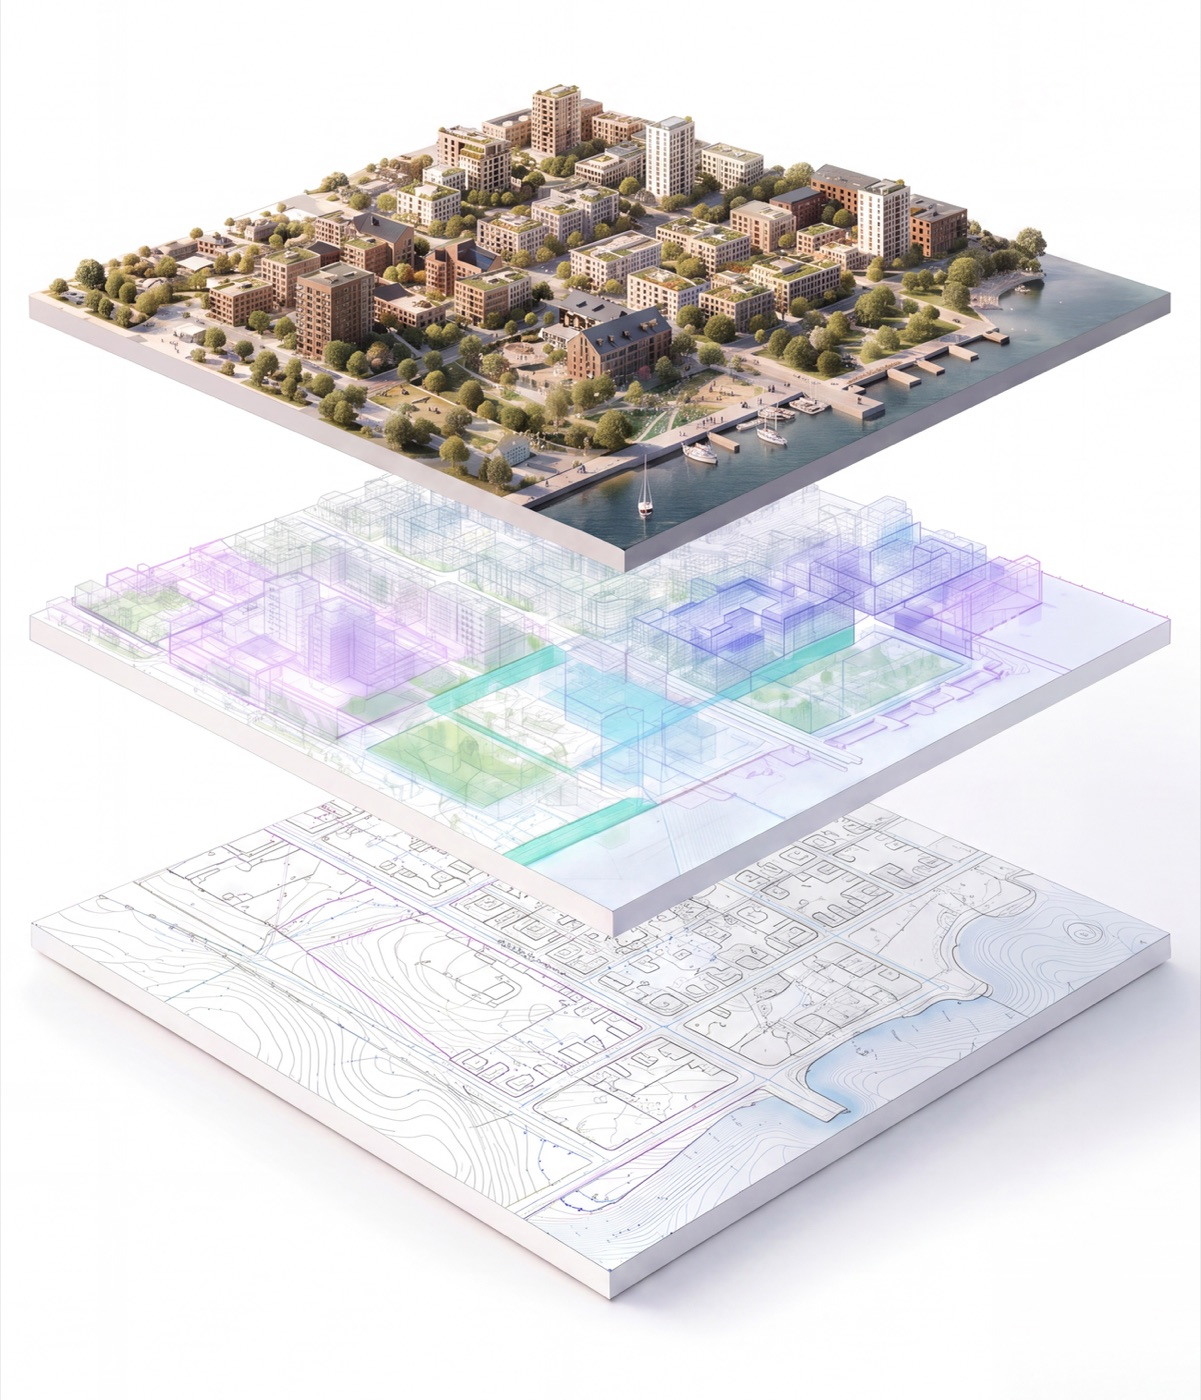
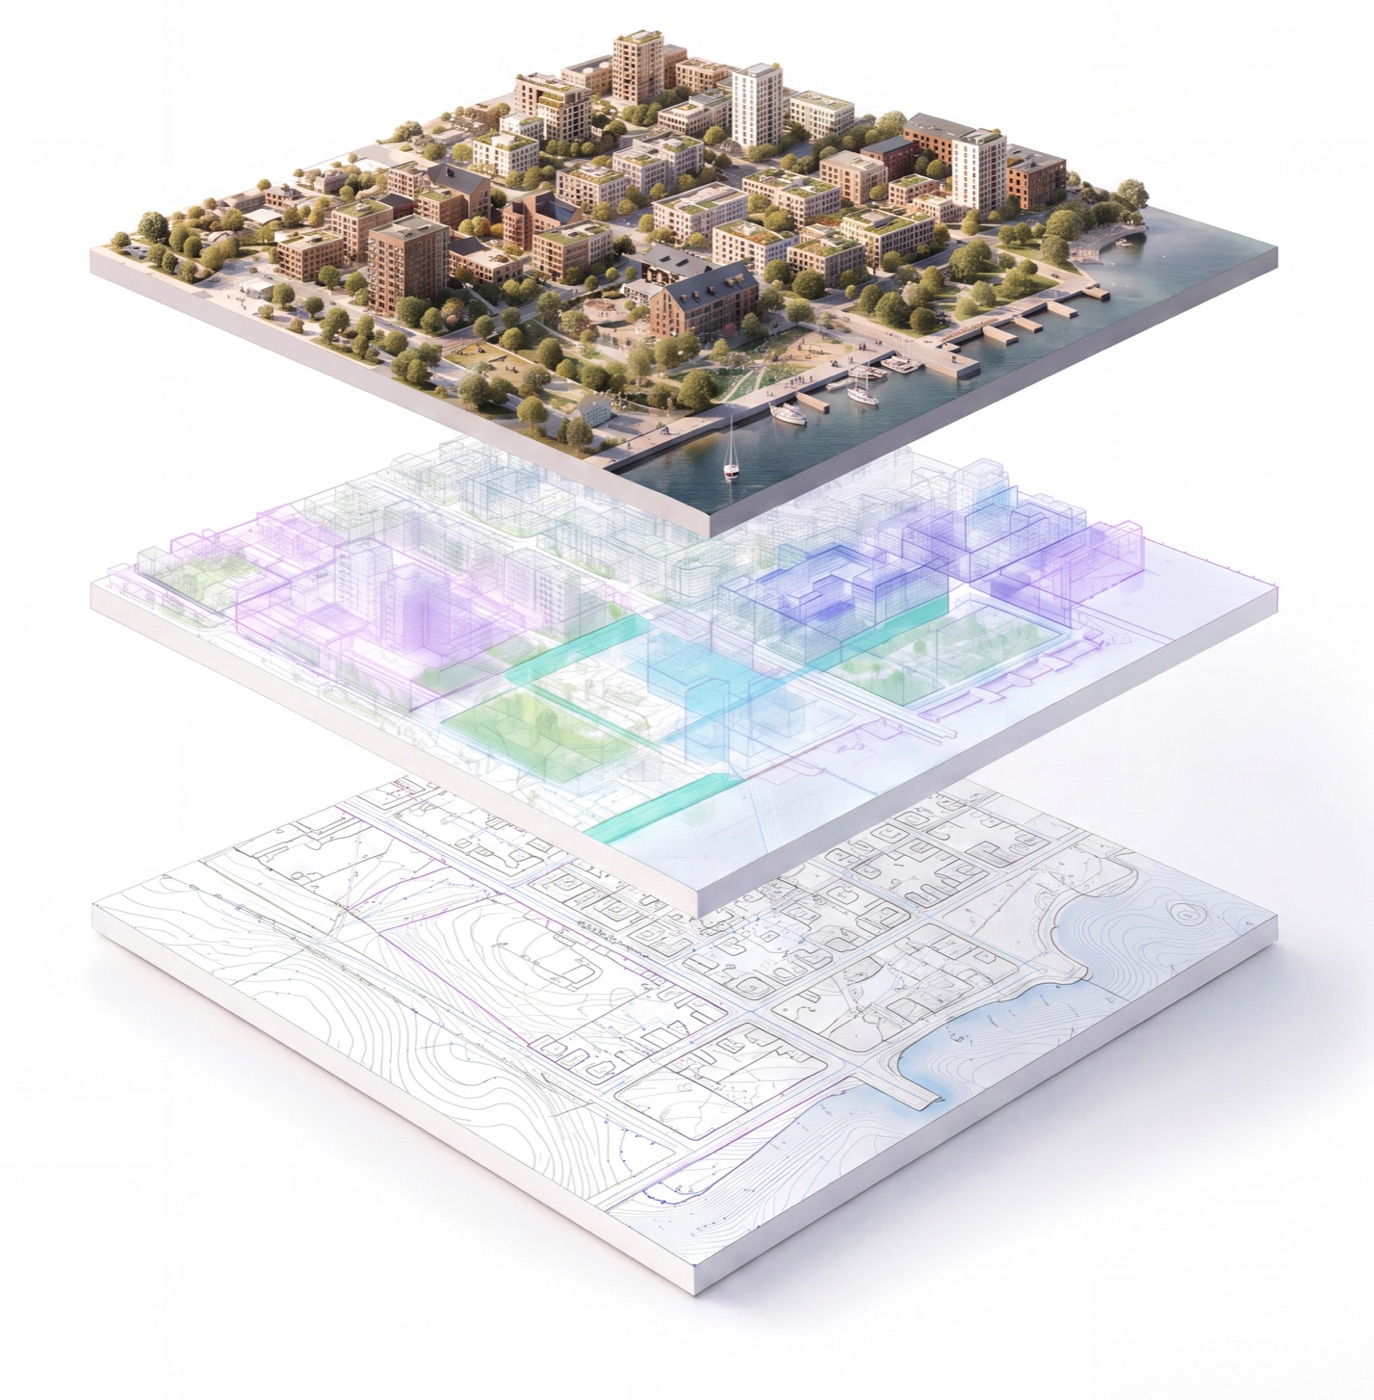
Mobil hero: Hero BG NEW MOBIL 2 inbytt (samma kantlås-princip, 1374×1400)

diff --git a/index.html b/index.html
@@ -596,7 +596,7 @@
         </div>
         <div class="hero-media reveal in rd2 cin" id="heroMedia">
           <picture>
-            <source media="(max-width:939px)" srcset="media/hero-mobil.jpg" width="1201" height="1400">
+            <source media="(max-width:939px)" srcset="media/hero-mobil.jpg" width="1374" height="1400">
             <img src="media/hero-bg.jpg" alt="Lagervisualisering — från detaljplan, via analys och volymstudier, till färdig stadsmiljö" width="2000" height="1728" fetchpriority="high">
           </picture>
         </div>